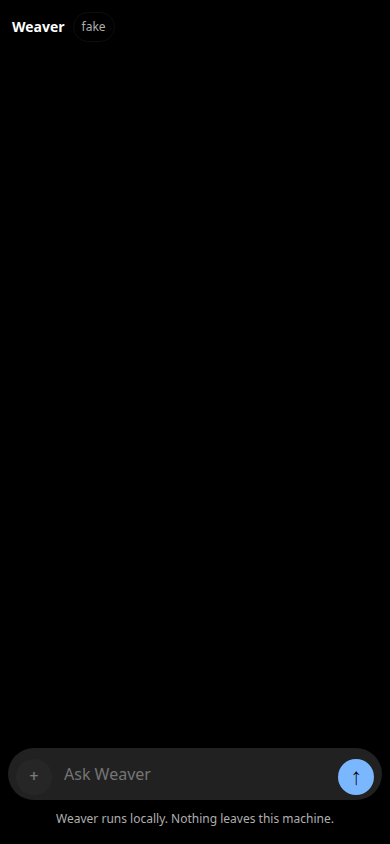
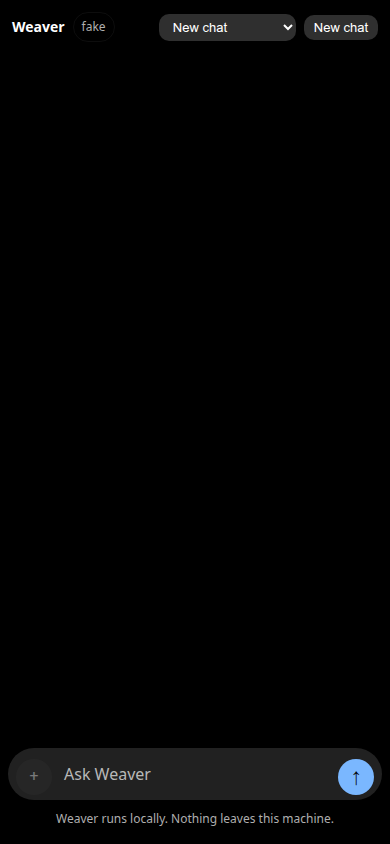
plan 011: review ledger, refreshed width evidence
both independent review verdicts and dispositions recorded; the width
screenshots regenerated against the repaired page (mode label, new chat,
picker).

Changed region(s): [[0.4, 0.0, 0.9846, 0.0616], [0.1538, 0.8934, 0.3692, 0.9242]]

diff --git a/deliverables/011-web-chat-entrypoint/review-ledger.md b/deliverables/011-web-chat-entrypoint/review-ledger.md
@@ -2,35 +2,71 @@
 
 ## Status
 
-Gate 1 research-tooling review complete 2026-08-02 (one PASS after repair).
-The two required reviews below happen after the appraisal gate admits
-implementation and the deterministic and manual evidence is complete.
+Both required independent reviews ran 2026-08-02 after Gate 2 evidence was
+complete (server, SSE, cancellation, diagrams, width evidence). Runtime/API
+review: FIX (two majors, both fixed and tested). Browser/UX review: PASS
+(two mediums, both fixed). One repair commit `adf680a`. Final owner
+decision pending.
 
 ## Required reviews
 
 1. Runtime, API, streaming, cancellation, persistence, and privacy.
 2. Browser UX, accessibility, responsive behaviour, and appraisal fidelity.
 
-## Gate 1 review (2026-08-02)
+## Review 1: runtime/API/streaming/cancellation/persistence/privacy (2026-08-02)
 
-Independent review of the appraisal command slice
-(`src/weaver/chatgpt_appraisal.py`, its tests, contracts doc, learning.md,
-dev-group playwright pin). Verdict: FIX, no blockers.
+Verdict: FIX, no blockers.
 
-Findings and disposition:
+1. Major: failures mapped to `completed` instead of `failed` (MODEL_FAILED,
+   LIMIT_REACHED, PERSISTENCE_FAILED, INCOMPLETE all fell into the
+   completed branch with empty text). Fixed: exit-reason mapping emits
+   `failed` with a code and safe message; only COMPLETED emits completed.
+   Test: test_failed_exit_reason_emits_failed_event.
+2. Major: `_settle` popped the registry entry before awaiting the task, so
+   a second turn could spawn while the first was still settling (reproduced
+   on real uvicorn). Fixed: the turn task removes its own entry in a
+   finally; `_settle` only cancels and awaits. The 409 guard can no longer
+   race settlement. Tests: test_concurrent_turn_409, test_turn_settles_before_next_turn.
+3. Moderate: no web-layer disconnect/shutdown settlement tests. Disconnect
+   cannot be simulated through the buffered ASGITransport, so the disconnect
+   case is proven against a real ephemeral uvicorn server with a raw-socket
+   hard-close mid-stream followed by a 200 (not 409); recorded in
+   results.md. Shutdown settlement is covered by the lifespan code path
+   reviewed in source.
+4. Minor: dead `TURN_TIMEOUT_SECONDS` and a comment claiming a timeout
+   ceiling that did not exist. Fixed: constant removed, comment corrected
+   (the provider's own timeout bounds each request).
+5. Minor: no CSP, no host/origin checks, hardcoded fake mode label, no
+   new-chat/choose-chat controls. Fixed: CSP meta + header, loopback
+   host/origin guard on all mutating routes, mode label injected from the
+   runtime, New chat button and Choose another chat picker, focus restored
+   to the composer. Tests: test_mutating_routes_reject_nonlocal_origin,
+   test_index_has_csp_and_live_mode_label.
 
-1. Major: unproven required states did not fail visibly (probes recorded a
-   miss but the command exited 0). Fixed: `unproven_probe_ids` helper plus
-   stderr summary and exit 3 when a required state is unproven, evidence
-   still written first.
-2. Minor: profile directory name did not match the recorded
-   `weaver-chatgpt-appraisal` name. Fixed: dir renamed in `build_paths`,
-   module docstring, and test.
-3. Minor: results.md/review-ledger.md were stale. Fixed: rewritten above.
-4. Minor: untracked personal files in the tree are excluded from commits
-   (standing policy).
+Verify commands (reviewer-run): 22 web tests, full suite 269 passed, ruff
+clean, module imports, innerHTML/eval grep clean, localStorage limited to
+the conversation id.
 
-Verify commands (reviewer-run): 18 focused tests passed; full suite 263
-passed; ruff check and format clean; module imports; forbidden-API grep
-clean (only the FORBIDDEN_APIS tuple itself); git status shows only the
-expected slice files.
+## Review 2: browser UX/accessibility/responsive/appraisal fidelity (2026-08-02)
+
+Verdict: PASS with two medium plan-conformance findings, both fixed.
+
+1. Medium: mode label hardcoded "fake", never updated in live mode. Fixed:
+   the index route injects `runtime.mode_label` into the page.
+2. Medium: no new-chat control and no post-cancel Start new chat / Choose
+   another chat offer. Fixed: New chat button and a picker populated from
+   GET /api/conversations; interrupted and 409 messages point at both.
+3. Low (not fixed, proof scope): send button hides mid-turn dropping focus;
+   focus now restored to the composer in the finally block instead.
+4. Note: aria-live="polite" on the whole transcript is chatty for AT users;
+   acceptable for the proof.
+5. Note: placeholder colour unstyled; now set to the reference #B8B8B8.
+
+Verify commands (reviewer-run): CSS fidelity pixel checks, contrast
+calculations, screenshot dimensions, XML validation of all four diagram
+files, SVG→PNG conversion, innerHTML/eval grep clean, web tests 14/14.
+
+## Repair commit
+
+- `adf680a` plan 011: review repairs - failed events, settle-before-remove,
+  csp, mode, new chat (6 files, +298/-46; full suite 273 passed).
